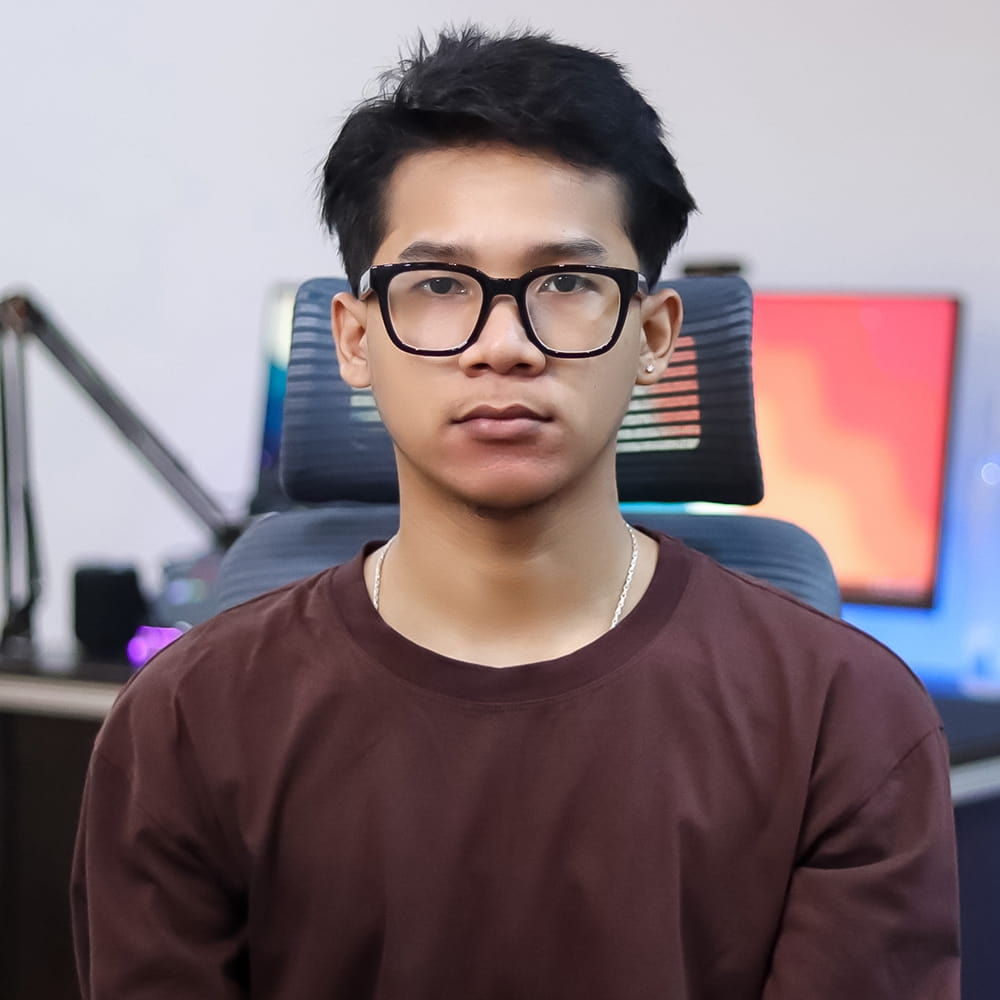
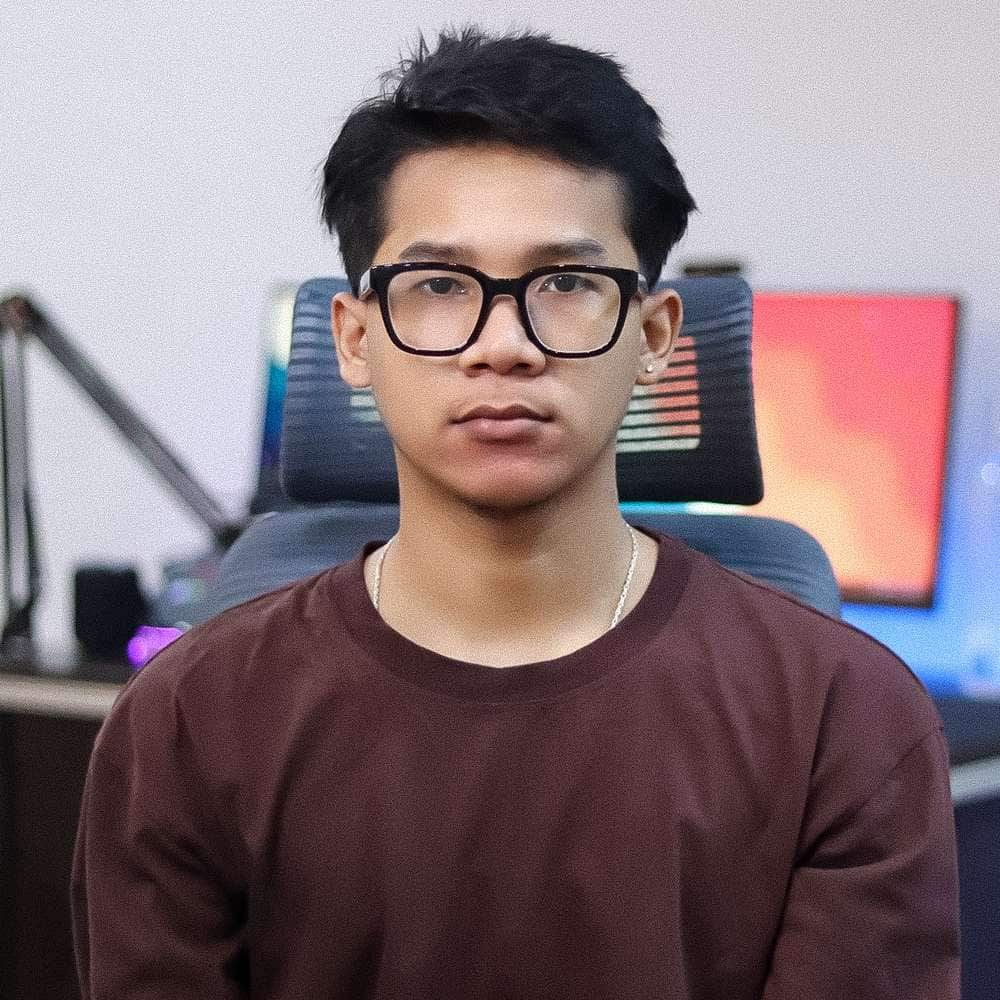
grain eeffect photo

diff --git a/about.html b/about.html
@@ -29,7 +29,7 @@
                         <img src="img/digbijay.jpg" alt="Digbijay Photo" class="about-img">
                     </div>
                     <div class="about-text">
-                        <p class="intro">I'm Digbijay Saikia, a versatile UI/UX designer with a passion for creating seamless digital experiences. With a Master's degree in Computer Applications from Sikkim Manipal Institute of Technology and a Bachelor's degree from Assam Don Bosco University, I bring a blend of technical expertise and creative flair to every project.</p>
+                        <p class="intro">I'm Digbijay Saikia, a versatile UI/UX designer with a passion for creating seamless digital experiences. With a Master's degree in Computer Applications from Sikkim Manipal Institute of Technology and Bachelor's degree in Computer Applications from Assam Don Bosco University, I bring a blend of technical expertise and creative flair to every project.</p>
                         <p class="intro">My journey in design began with a fascination for technology and a knack for visual storytelling. Over the years, I've honed my skills in graphics design and video editing, crafting visually stunning interfaces that prioritize user satisfaction.</p>
                         <p class="perspective">What sets me apart is my unique perspective—I approach design projects not just as a designer, but also from a developer's standpoint. This enables me to create solutions that are not only aesthetically pleasing but also technically robust and user-centric.</p>
                         <p class="thriving">Whether it's wireframing, prototyping, or diving into the latest design trends, I thrive on pushing boundaries and delivering excellence. Let's collaborate and bring your vision to life!</p>
